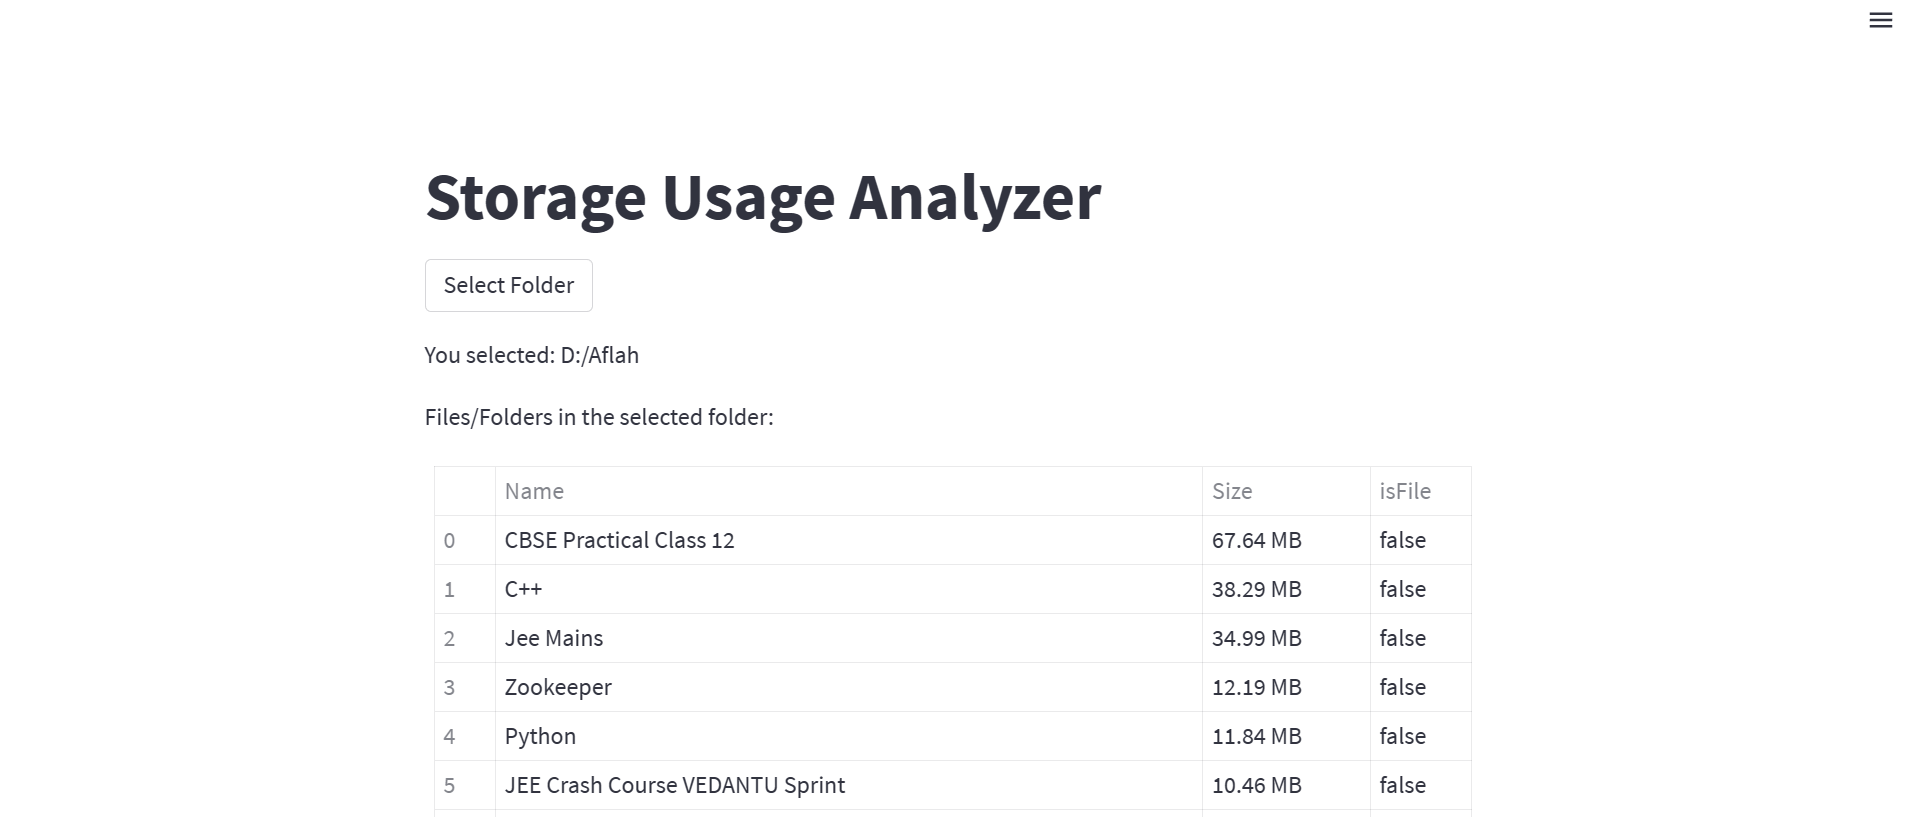
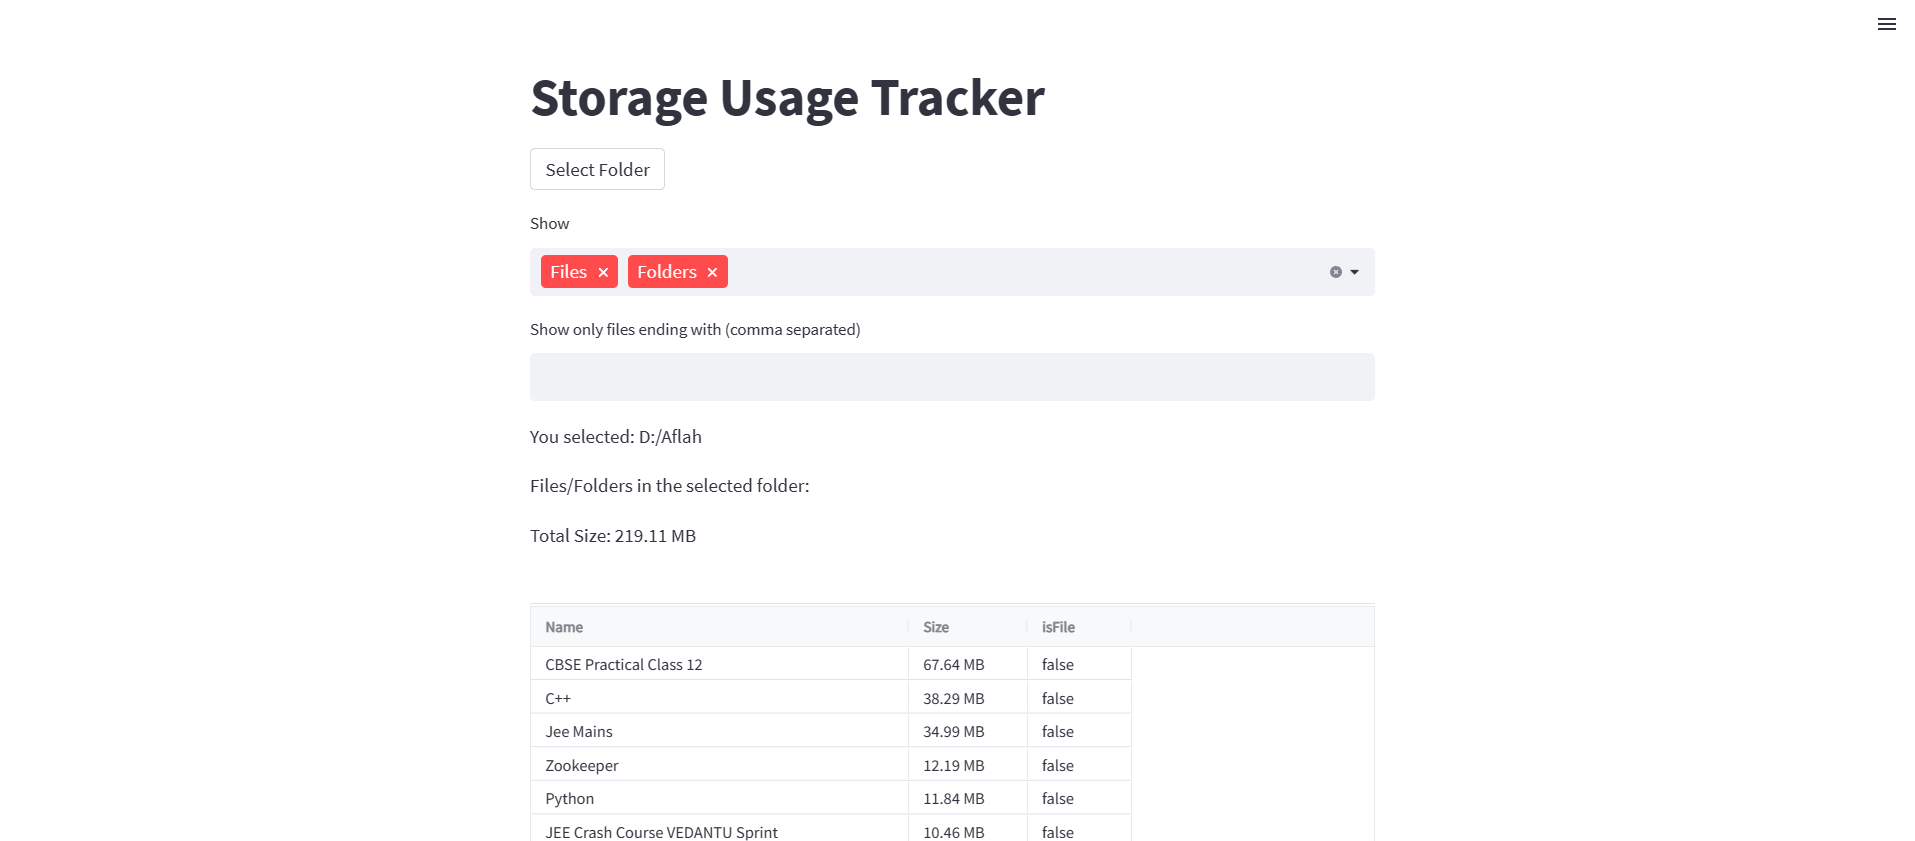
Improved Options

diff --git a/main.py b/main.py
@@ -74,13 +74,13 @@ if folder_path:
             ).rglob('*'))
         data.append(
             {
-                "name": f,
-                "size": size,
+                "Name": f,
+                "Size": size,
                 "isFile": isFile
             }
         )
     # sort by size
-    data = sorted(data, key=lambda k: k['size'], reverse=True)
+    data = sorted(data, key=lambda k: k['Size'], reverse=True)
     df = pd.DataFrame(data, columns=['Name', 'Size', 'isFile'])
     total_size = df['Size'].sum() if len(df) > 0 else 0
     df_display = df.copy()
